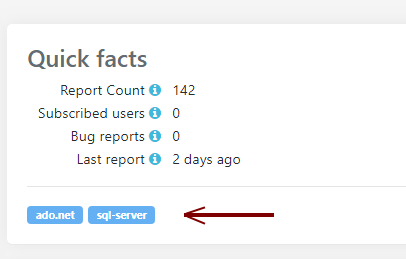
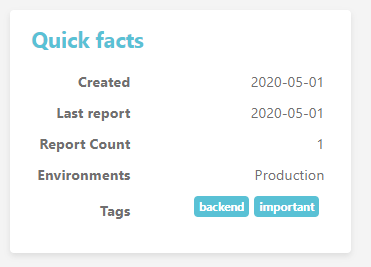
UI Updates and more information

diff --git a/docs/getting-started/index.md b/docs/getting-started/index.md
@@ -81,8 +81,8 @@ The search feature allows you to quickly find the next error to solve.
 The following search options are available:
 
 * _**Free text**_ searches through the entire error reports after the given information.
-* _**[Application environments](../features/environments)**_ allows you to find errors that exists in a specific environment (like production).
-* _**[Tags](../features/incidents/tagging)**_ are used to categorize errors to allow developers to correct a specific type of error (depending on expertize).
+* _**[Application environments](../features/incidents/environments)**_ allows you to find errors that exists in a specific environment (like production).
+* _**[Tags](../features/incidents/tags)**_ are used to categorize errors to allow developers to correct a specific type of error (depending on expertize).
 * _**Incident state**_ can be used to search through other than new incidents.
 * _**[Context collections](../features/incidents/context-collections)**_ are telemetry data, either collected automatically by Coderr, or supplied by you.
 
@@ -123,11 +123,13 @@ Quick facts to the right in the right in the screenshot.
 
 Coderr automatically include which application version that the error was reported for, which environment (in this case "Production") and the tag, "backend", that we attached to the error report. 
 
+[Learn more about quick facts](../features/incidents/quickfacts/)
+
 ## Features used when reporting
 
 The following features were used when reporting the error.
 
-* [Tags](../features/incidents/tagging/) 
+* [Tags](../features/incidents/tags/) 
 * [Environment tracking](../features/incidents/environments/)
 * [Custom context data](../features/incidents/context-collections#Custom)
 
@@ -141,10 +143,10 @@ You are now in the analyze view which is designed to make it easy to accuratly a
 
 With analyze, you can:
 
-* [View geographic report origins](../analyze/)
-* [Browser error reports]()
-* [Read bug reports from users](../features/bug-reports/)
-* [Analyze business impact](../features/partitions/)
+* View geographic report origins
+* Browser error reports
+* Read bug reports from users
+* [Analyze business impact](/features/recommendations/)
 
 The context data ("Context collections") makes correcting bugs in production as easy as in development environments. No need to read bug reports from users or trying to find the relevant information in log files. Everything have been collected and packages for you.
 
@@ -174,6 +176,6 @@ Err.Configuration.ThrowExceptions = false;
 
 # Where to go next
 
-If you are using our commercial editions you might want to read about [recommendations](../features/discover/recommendations/) or [Insights](../features/insights).
+If you are using our commercial editions you might want to read about [recommendations](../features/recommendations/).
 
 Don't hesitate to [email us](mailto:help@coderr.io) if you need help. Our [Guides and support](https://coderr.io/guides-and-support/) is otherwise a perfect place to visit next.

diff --git a/docs/features/reporting/index.md b/docs/features/reporting/index.md
@@ -8,7 +8,7 @@ In its simplest form reporting is done by using the `Err.Report(exception)` meth
 ```csharp
 try
 {
-    somelogic();
+    SomeLogic();
 }
 catch(SomeException ex)
 {
@@ -18,7 +18,7 @@ catch(SomeException ex)
 
 The exception should appear in your server instance shortly after being reported. If you click on it it will be available as follows:
 
-![](first-error.png)
+![](/screens/features/reporting/first-error.png)
 
 If you run the code multiple times you'll see that the "Report count" counter will increase, but you will not get multiple errors as you would have in a log file.
 
@@ -45,7 +45,7 @@ catch (Exception ex)
 }
 ```
 
-![](contextdata.png)
+![](/screens/features/reporting/forum-post.png)
 
 The second parameter supports the `dynamic` keyword and complex structures. 
 
@@ -58,13 +58,25 @@ catch (Exception ex)
 {
     Err.Report(ex, new
     {
-        User = new { Id = 5, LastName = "Perik" },
+        User = new
+        {
+            Id = 5,
+            LastName = "Perik",
+            Address = new
+            {
+                City = "Falun"
+            }
+        },
         Discount = new { Id = 4848 }
     });
 }
 ```
 
-# Adding multiple collections
+![](/screens/features/reporting/complex.png)
+
+# Adding multiple collections / Naming collections
+
+If you want to add multiple collections, or naming them, you need to use the `ContextCollectionDTO` as the second argument.
 
 It's possible to structure the attached data by passing an array of `ContextCollectionDTO` to the second argument:
 
@@ -87,7 +99,7 @@ catch (Exception ex)
 }
 ```
 
-![](collections.png)
+![](/screens/features/reporting/multiple-collections.png)
 
 To make that less cumbersome, Coderr is providing an extension method, `ToContextCollection()`.
 
@@ -124,8 +136,27 @@ catch (Exception ex)
 
 You can add `ErrTags" to any context collection and the server will automatically pick it up.
 
-# Attaching data with every report
+# Attaching data to exceptions
+
+Sometimes, you just want to rethrow exceptiosn instead of handling or reporting it.
+When doing so, it might help to attach more information.
+
+```csharp
+try
+{
+    // some example
+}
+catch (Exception ex)
+{
+    Ex.Data["Err.User"] = user;
+    throw;
+}
+```
+
+All data properties prefixed with  `Err.` will automatically be picked up by Coderr when the integration library kicks in to collect the exception.
+
+# Attaching data to every report
 
 You can also create context collections which will be automatically included with every reported error.
 
-[Read more](../client/extending/contextprovider/)
+[Read more](/client/extending/contextprovider/)

diff --git a/docs/features/recommendations/index.md b/docs/features/recommendations/index.md
@@ -38,9 +38,9 @@ Err.Configuration.AddPartition(context =>
 });
 ```
 
-_(You can add [your own context collections](../../client/extending/context-provider/) to every report)_
+_(You can add [your own context collections](../../features/incidents/context-collections/) to every report)_
 
-# Improving suggestions
+# Improving recommendations
 
 ***You need to be an administrator to be able to make this configuration.***
 
@@ -50,15 +50,15 @@ Therefore, prioritization of incidents are made upon the known total (i.e. based
 
 If you would like to know see the impact based on the actual number of installations or users you need to go to the administration pages and specify those.
 
-1. Click on the cog in the top right menu<br>![](configure1.png)
-2. Make sure that the correct application is selected in the top left menu<br>![](configure2.png)
-3. Click on prioritization in the menu<br>![](configure3.png)
-4. Click on "Create new"<br> ![](configure4.png)
+1. Click on the cog in the top right menu<br>![](../../screens/features/recommendations/configure1.png)
+2. Make sure that the correct application is selected in the top left menu<br>![](../../screens/features/recommendations/configure2.png)
+3. Click on prioritization in the menu<br>![](../../screens/features/recommendations/configure3.png)
+4. Click on "Create new"<br> ![](../../screens/features/recommendations/configure4.png)
 
 Fill in the information about your partition.
 
 Here is a sample for users:
 
-![](configure5.png)
+![](../../screens/features/recommendations/configure5.png)
 
-Once done, try to report an exception and then click on "Suggestions" under the "Discover" menu.
+Once done, try to report an exception and then click on "Recommendations" under the "Discover" menu.

diff --git a/docs/features/incidents/tags/index.md b/docs/features/incidents/tags/index.md
@@ -1,0 +1,64 @@
+Tags
+====
+
+Tags allow you to categorize errors.
+
+To attach tags to an incident you can do the following:
+
+```csharp
+try
+{
+    //some stuff that generates an exception
+}
+catch (Exception ex)
+{
+    Err.Report(ex, new { ErrTags = "important,backend" });
+
+    // alternative:
+    // Err.Report(ex, new { ErrTags = new[] { "important", "backend" }});
+}
+```
+
+### Result
+
+![](/screens/features/tags/tags-ui.png)
+
+
+## Add a tag to every report
+
+To add an tag to every report (like a server name), you can use a [custom context provider](../../../client/extending/contextprovider/).
+
+```csharp
+public class ServerNameProvider : IContextInfoProvider
+{
+    public string Name => "ServerName";
+
+    public ContextCollectionDTO Collect(IErrorReporterContext context)
+    {
+        var properties = new Dictionary<string, string>();
+        properties.Add("ErrTags", Environment.MachineName);
+
+        return new ContextCollectionDTO(Name, properties);
+    }
+}
+```
+
+The .NET Standard version of the interface is named `IContextCollectionProvider` instead of `IContextInfoProvider`.
+
+To activate the provider, register it using `Err.Configuration`:
+
+```csharp
+Err.Configuration.ContextProviders.Add(new ServerNameProvider());
+```
+
+### Result
+
+![](/screens/features/tags/context-collection.png)
+
+
+## Finding incidents using tags
+
+Once you have added tags you can use them to find specific incidents in the search interface:
+
+![](/screens/features/tags/incident-search.png)
+

diff --git a/docs/features/incidents/quickfacts.md b/docs/features/incidents/quickfacts.md
@@ -1,0 +1,34 @@
+Quick facts
+============
+
+![](/screens/quickfacts.png)
+
+## Created
+
+When Coderr received the first error report for this incident.
+
+## Last report
+
+When we received the most recent report.
+This date/time can differ from the date on the most recently stored report (due to report limiting, see below).
+
+## Report count
+
+The report count shows the total amount of error reports received since this incident was first discovered.
+Do note that this report count can be much higher than the amount of reports available under the report browser.
+
+The report count can show 143 000 reports while only 50 are available under the report browser. We limit the number of saved reports to lower amount of resources required for each incident.
+
+Once the report limit have been reached (default 50 reports), Coderr will start to delete the oldest reports to be able to save newer ones (i.e. more recent data).
+
+## User Impact
+
+A partiion defined for this application. In this case, we have recieved this incident from one user, which is half of all users that we have recieved errors for in this application.
+
+## Environments
+
+Which application environments, like test, dev and production that this incident was received from.
+
+## Tags
+
+Tags associated with this incident.

diff --git a/docs/features/incidents/environments/index.md b/docs/features/incidents/environments/index.md
@@ -7,24 +7,24 @@ We therefore allow you to track in which environment the errors have been detect
 
 In that way you can delete all errors which have been found in a single environment.
 
-![](quickfacts.png)
+![](../../../screens/features/environments/quickfacts.png)
 
 You can also search for incidents in a specific environment:
 
-![](search.png)
+![](../../../screens/features/environments/search_options.png)
 
 # Resetting an environment
 
-To reset an environment you need to be administrator.
+_To reset an environment you need to be administrator._
 
 Click on the settings icon in the top right menu:
 
-![](settings-icon.png)
+![](../../../screens/features/settings_icon.png)
 
 Select the correct application in the application menu (showing `(All applications)`) and then click on "Environments" in the submenu.
 
 Once done, you will see this page:
 
-![](reset.png)
+![](../../../screens/features/environments/reset.png)
 
 Just select the correct environment in the right dropdown and click the "Reset" button.

diff --git a/docs/features/incidents/context-collections/index.md b/docs/features/incidents/context-collections/index.md
@@ -1,0 +1,32 @@
+Context collections
+===================
+
+Context collections is part of the core in Coderr. These collections of telemetry data allows you to quickly and accuratly diagnose errors.
+Most of them are automatically generated when Coderr detects a new error. 
+
+## Adding context data
+
+* To manually add context data, read the [reporting](/features/reporting) guide.
+* To let Coderr automatically generate custom data, create a [custom context provider](/client/extending/contextprovider/)
+
+## Examples
+
+Hare are a few examples. The integration libraries generate more than these.
+
+### ASP.NET Core MVC
+
+
+![](/screens/features/context/httprequest.png)
+
+![](/screens/features/context/modelstate.png)
+
+![](/screens/features/context/routedata.png)
+
+### JavaScript
+
+![](/screens/features/context/location.png)
+
+### VueJS
+
+![](/screens/features/context/vuecomponent.png)
+

diff --git a/docs/client/extending/contextprovider.md b/docs/client/extending/contextprovider.md
@@ -3,7 +3,7 @@ Creating a custom context provider
 
 Context providers are used to automatically attach information to each error report. The information is useful to determine why an exception have been thrown.
 
-![](../context-info.png)
+![](/screens/features/context/anonymous-object.png)
 
 To create a provider you need to create a class which implements the context provider interface. In the .NET standard library the interface is named `IContextCollectionProvider` and in .NET (4.x) it's named `IContextInfoProvider`.
 

diff --git a/docs/features/incidents/close/index.md b/docs/features/incidents/close/index.md
@@ -4,7 +4,7 @@ Close incidents
 You close incidents to tell Coderr that it's been corrected.
 Once closed, Coderr will ignore all incoming error reports for versions less or equal to the one you specified.
 
-![](close-dialog.png)
+![](/screens/features/close/close-incident.png)
 
 ## Writing a solution
 

diff --git a/docs/features/incidents/notifications/index.md b/docs/features/incidents/notifications/index.md
@@ -13,4 +13,4 @@ Now you should see the settings page.
 
 Browser notifications allows you browser to create OS notifications like:
 
-![](../../../screens/features/notifications/settings.png)
+![](../../../screens/features/notifications/browser_notification.png)

diff --git a/docs/features/analyze/index.md b/docs/features/analyze/index.md
@@ -9,3 +9,4 @@ In the analyze view you can see all context data that was collected, where in th
 
 You can also see where in the world that we received the error reports from.
 
+![](/screens/analyze/origins/origins.png)
